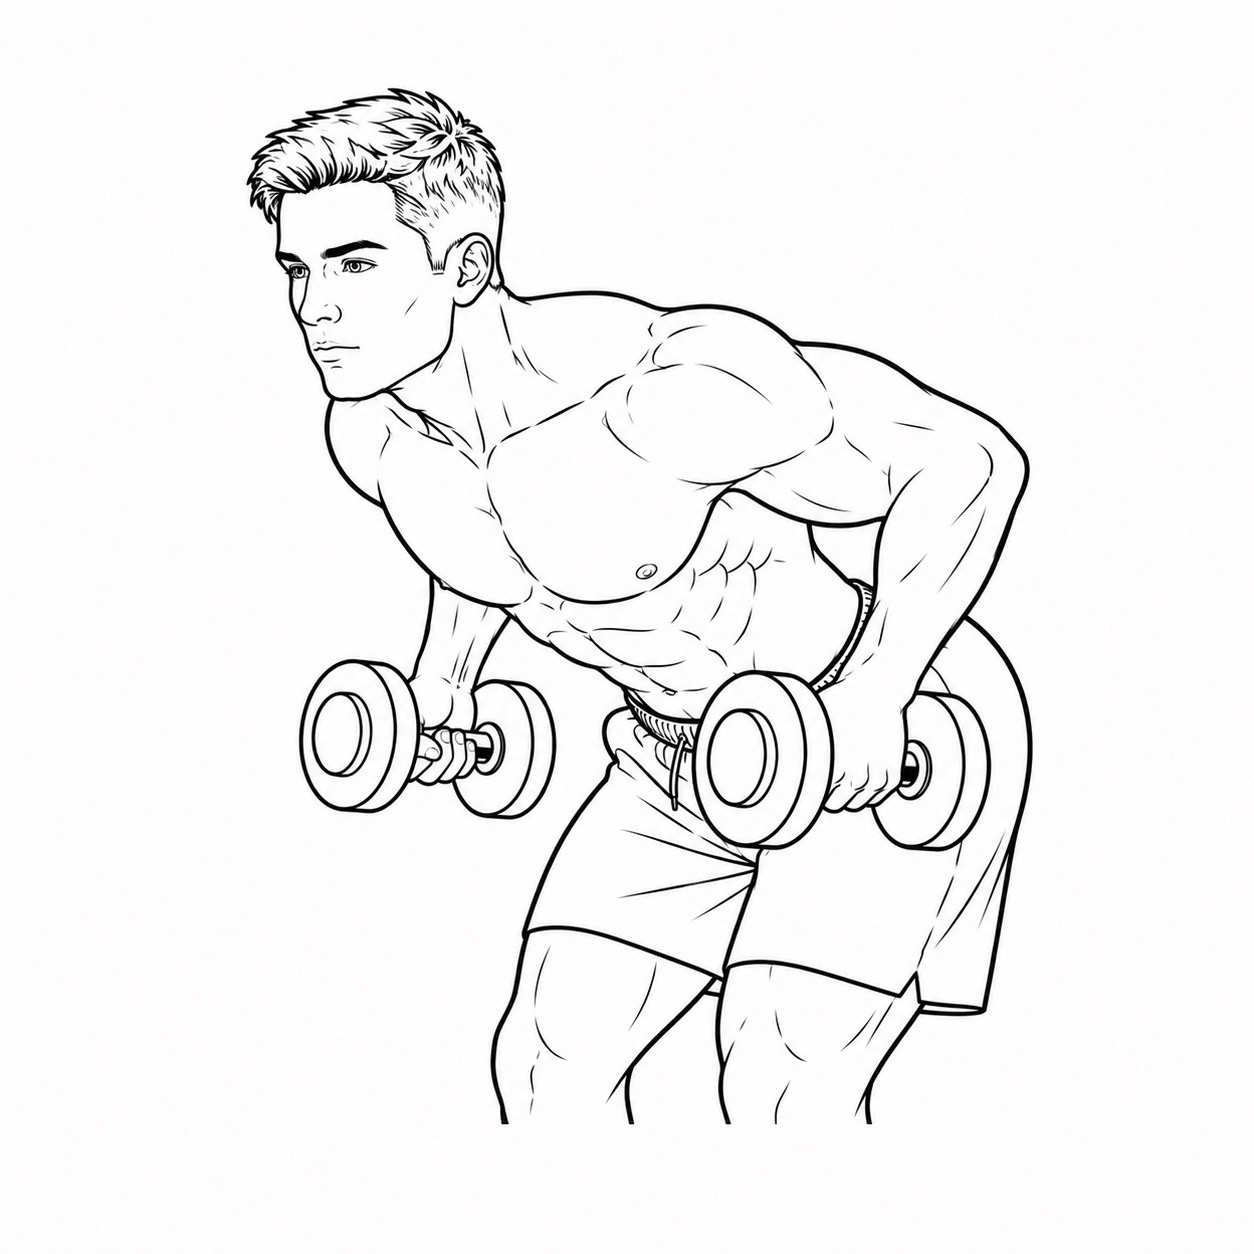
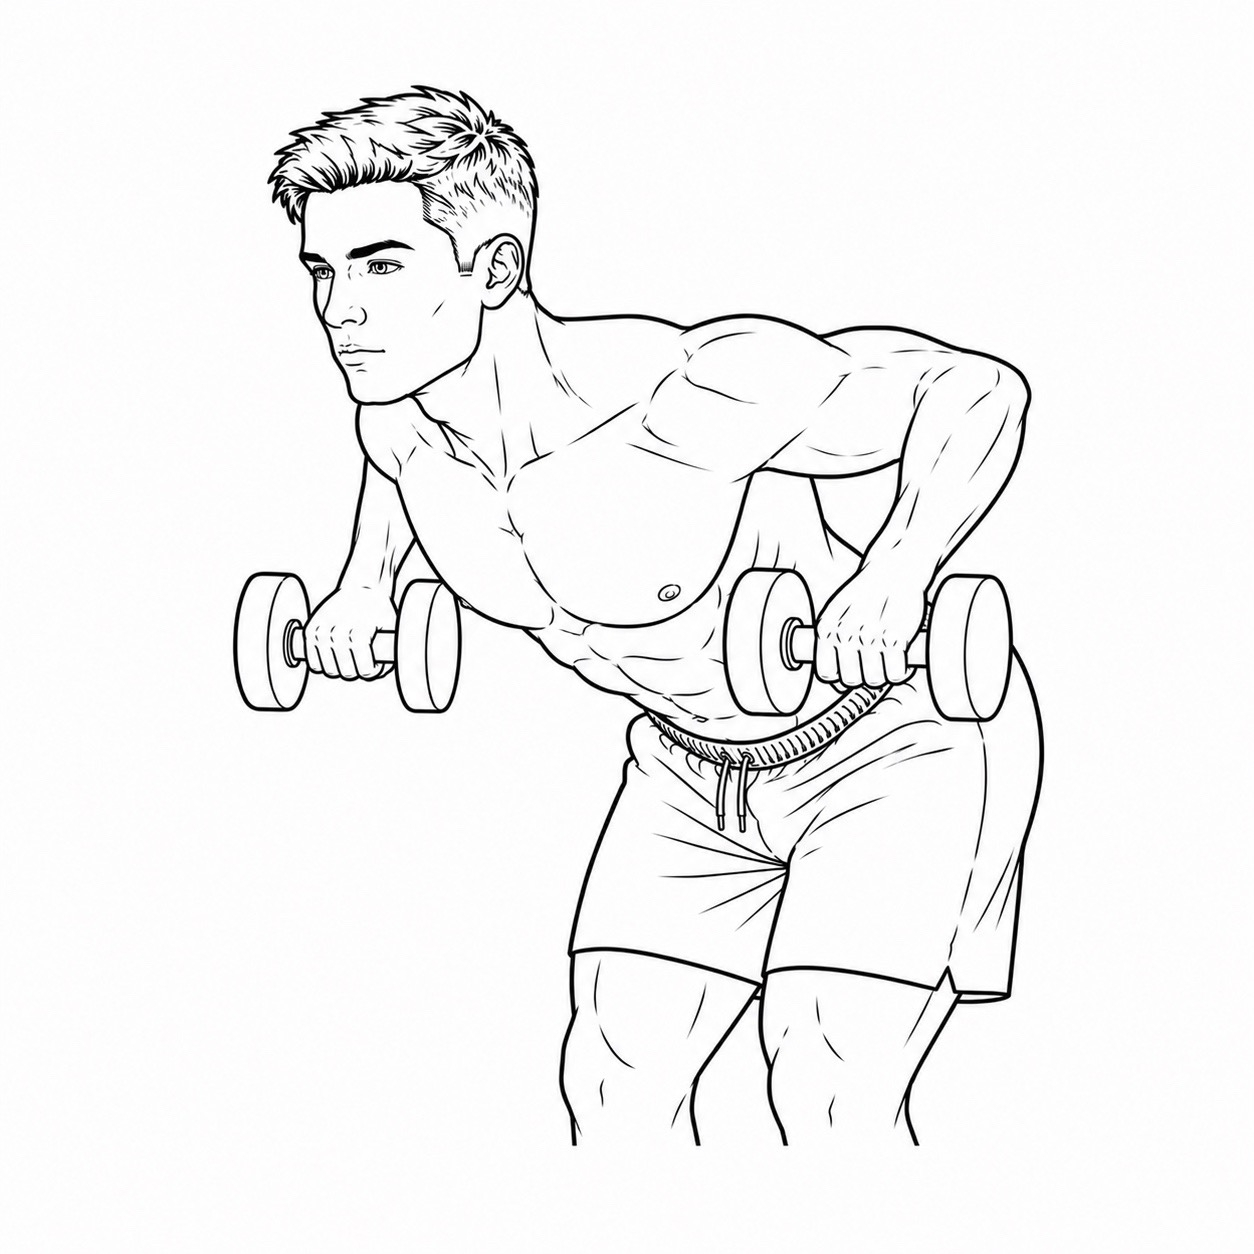
Add files via upload

Changed region(s): [[0.1866, 0.0622, 0.8397, 0.9019], [0.3732, 0.8086, 0.4043, 0.9019]]

diff --git a/script.js b/script.js
@@ -1,19 +1,54 @@
 const workoutsData = {
+    warmup: {
+        name: "РАЗМИНКА",
+        time: "10 минут",
+        exercisesCount: "9 упражнений",
+        heroImg: "images/warmup.jpg",
+        exercises: [
+            { name: "Вращение головой", reps: "30 сек", img: "images/exercises/warmup1.jpg" },
+            { name: "Махи руками", reps: "30 сек", img: "images/exercises/warmup2.jpg" },
+            { name: "Вращение локтями", reps: "30 сек", img: "images/exercises/warmup3.jpg" },
+            { name: "Вращение кистями", reps: "30 сек", img: "images/exercises/warmup4.jpg" },
+            { name: "Наклоны корпуса", reps: "30 сек", img: "images/exercises/warmup5.jpg" },
+            { name: "Вращение тазом", reps: "30 сек", img: "images/exercises/warmup6.jpg" },
+            { name: "Вращение ногами", reps: "30 сек", img: "images/exercises/warmup7.jpg" },
+            { name: "Приседания без веса", reps: "30 сек", img: "images/exercises/warmup8.jpg" },
+            { name: "Прыжки", reps: "30 сек", img: "images/exercises/warmup9.jpg" }
+        ]
+    },
+    legs: {
+        name: "НОГИ",
+        time: "35 минут",
+        exercisesCount: "9 упражнений",
+        heroImg: "images/legs.jpg",
+        exercises: [
+            { name: "Приседания с гантелями", reps: "3x12", img: "images/exercises/legs1.jpg" },
+            { name: "Выпады с гантелями", reps: "3x12", img: "images/exercises/legs2.jpg" },
+            { name: "Плие-подъемы на носки с гантелями", reps: "3x12", img: "images/exercises/legs3.jpg" },
+            { name: "Болгарские приседания с гантелями", reps: "3x12", img: "images/exercises/legs4.jpg" },
+            { name: "Ягодичный мостик с гантелью", reps: "3x12", img: "images/exercises/legs5.jpg" },
+            { name: "Выпады в сторону с гантелями", reps: "3x12", img: "images/exercises/legs6.jpg" },
+            { name: "Подъемы на носки с гантелями", reps: "3x12", img: "images/exercises/legs7.jpg" },
+            { name: "Приседания плие с гантелью", reps: "3x12", img: "images/exercises/legs8.jpg" },
+            { name: "Глубокие приседания с задержкой с гантелями", reps: "3x12", img: "images/exercises/legs9.jpg" }
+        ]
+    },
     arms: {
         name: "РУКИ",
-        time: "25 минут",
-        exercisesCount: "9 упражнений",
+        time: "50 минут",
+        exercisesCount: "10 упражнений",
         heroImg: "images/arms.jpg",
         exercises: [
             { name: "Жим гантелей над плечами вверх", reps: "3x12", img: "images/exercises/arms1.jpg" },
             { name: "Махи в стороны с гантелями", reps: "3x12", img: "images/exercises/arms2.jpg" },
             { name: "Тяга гантелей в наклоне к плечам", reps: "3x12", img: "images/exercises/arms3.jpg" },
-            { name: "Подъем гантелей на бицепс верт. хватом", reps: "3x12", img: "images/exercises/arms4.jpg" },
-            { name: "Подъем гантелей на бицепс гориз. хватом", reps: "3x12", img: "images/exercises/arms5.jpg" },
+            { name: "Подъем гантелей на бицепс вертикальным хватом", reps: "3x12", img: "images/exercises/arms4.jpg" },
             { name: "Французский жим с гантелью из-за головы", reps: "3x12", img: "images/exercises/arms6.jpg" },
+            { name: "Подъем гантелей на бицепс горизонтальным хватом", reps: "3x12", img: "images/exercises/arms5.jpg" },
+            { name: "Обратные отжимания от стула", reps: "3x12", img: "images/exercises/arms10.jpg" },
             { name: "Жим гантелей от плеч лежа", reps: "3x12", img: "images/exercises/arms7.jpg" },
             { name: "Жим гантелей от груди лежа", reps: "3x12", img: "images/exercises/arms8.jpg" },
-            { name: "Разведение гантелей в стороны лежа", reps: "3x12", img: "images/exercises/arms9.jpg" }
+            { name: "Разведение гантелей в стороны", reps: "3x12", img: "images/exercises/arms9.jpg" }
         ]
     },
     abs: {
@@ -63,7 +98,7 @@ const workoutsData = {
 };
 
 // ЗАГРУЗКА СОХРАНЕННЫХ ДАННЫХ
-let completions = { arms: 0, abs: 0, chest: 0 };
+let completions = { warmup: 0, legs: 0, arms: 0, abs: 0, chest: 0 };
 
 function loadCompletions() {
     const saved = localStorage.getItem('workoutCompletions');
@@ -77,9 +112,13 @@ function saveCompletions() {
 }
 
 function updateCompletionDisplay() {
+    const warmupCard = document.querySelector('.workout-card[data-workout="warmup"] .completed-count');
+    const legsCard = document.querySelector('.workout-card[data-workout="legs"] .completed-count');
     const armsCard = document.querySelector('.workout-card[data-workout="arms"] .completed-count');
     const absCard = document.querySelector('.workout-card[data-workout="abs"] .completed-count');
     const chestCard = document.querySelector('.workout-card[data-workout="chest"] .completed-count');
+    if (warmupCard) warmupCard.textContent = `Выполнено: ${completions.warmup} раз`;
+    if (legsCard) legsCard.textContent = `Выполнено: ${completions.legs} раз`;
     if (armsCard) armsCard.textContent = `Выполнено: ${completions.arms} раз`;
     if (absCard) absCard.textContent = `Выполнено: ${completions.abs} раз`;
     if (chestCard) chestCard.textContent = `Выполнено: ${completions.chest} раз`;
@@ -299,7 +338,9 @@ function updateTimerDisplay() {
 document.querySelectorAll('.workout-card').forEach(card => {
     card.addEventListener('click', () => {
         const workout = card.getAttribute('data-workout');
-        if (workout === 'arms') openWorkout('arms');
+        if (workout === 'warmup') openWorkout('warmup');
+        else if (workout === 'legs') openWorkout('legs');
+        else if (workout === 'arms') openWorkout('arms');
         else if (workout === 'abs') openWorkout('abs');
         else if (workout === 'chest') openWorkout('chest');
     });

diff --git a/style.css b/style.css
@@ -1,3 +1,10 @@
+/* ============================================
+   SPORTAPP - ПОЛНЫЙ СТИЛЬ
+   Акцентный цвет: SteelBlue #4682B4
+   Фоновый цвет: #26455f
+   ============================================ */
+
+/* ---------- ОБНУЛЕНИЕ И БАЗОВЫЕ СТИЛИ ---------- */
 * {
     margin: 0;
     padding: 0;
@@ -19,6 +26,7 @@ body {
     min-height: 100vh;
 }
 
+/* ---------- ЭКРАН ЗАГРУЗКИ (SPLASH) ---------- */
 .splash-screen {
     position: fixed;
     top: 0;
@@ -63,6 +71,7 @@ body {
     display: none !important;
 }
 
+/* ---------- ГЛАВНОЕ МЕНЮ (СПИСОК ТРЕНИРОВОК) ---------- */
 .main-menu {
     max-width: 500px;
     margin: 0 auto;
@@ -72,6 +81,7 @@ body {
     background-color: #26455f;
 }
 
+/* Верхняя фотография с заголовком */
 .hero-photo {
     position: relative;
     width: 100%;
@@ -108,6 +118,7 @@ body {
     letter-spacing: -0.3px;
 }
 
+/* Список карточек тренировок */
 .workout-list {
     padding: 20px 16px;
     display: flex;
@@ -118,6 +129,7 @@ body {
     padding-bottom: 40px;
 }
 
+/* Карточка тренировки: 2/3 цвет + 1/3 фото */
 .workout-card {
     display: flex;
     width: 100%;
@@ -135,6 +147,7 @@ body {
     transform: scale(0.98);
 }
 
+/* Левая часть карточки (2/3) - акцентный цвет */
 .card-info {
     width: 66.666%;
     padding: 20px 16px;
@@ -170,6 +183,7 @@ body {
     margin-top: 6px;
 }
 
+/* Правая часть карточки (1/3) - фото */
 .card-image {
     width: 33.333%;
     overflow: hidden;
@@ -184,6 +198,7 @@ body {
     display: block;
 }
 
+/* ---------- ЭКРАН ВЫБОРА ТРЕНИРОВКИ (СПИСОК УПРАЖНЕНИЙ) ---------- */
 .workout-screen {
     max-width: 500px;
     margin: 0 auto;
@@ -222,6 +237,7 @@ body {
     background: rgba(0,0,0,0.8);
 }
 
+/* Верхняя фотография на экране выбора тренировки */
 .workout-hero {
     position: relative;
     width: 100%;
@@ -268,6 +284,7 @@ body {
     font-weight: 500;
 }
 
+/* Список упражнений перед стартом */
 .exercises-list {
     flex: 1;
     padding: 20px 18px;
@@ -319,6 +336,7 @@ body {
     color: #5b6e8c;
 }
 
+/* Кнопка СТАРТ */
 .start-button-container {
     position: sticky;
     bottom: 0;
@@ -349,7 +367,8 @@ body {
     background: #3a6e9a;
 }
 
-/* АКТИВНАЯ ТРЕНИРОВКА */
+/* ---------- АКТИВНАЯ ТРЕНИРОВКА (ВЫПОЛНЕНИЕ УПРАЖНЕНИЙ) ---------- */
+/* Экран фиксирован на весь экран */
 .active-workout-screen {
     max-width: 500px;
     margin: 0 auto;
@@ -366,6 +385,7 @@ body {
     overflow: hidden;
 }
 
+/* Верхняя часть (белый фон, фото по центру) */
 .active-top-block {
     flex: 1;
     position: relative;
@@ -377,6 +397,7 @@ body {
     justify-content: center;
 }
 
+/* Кнопка назад в активной тренировке */
 .active-back-btn {
     position: absolute;
     top: 18px;
@@ -394,6 +415,7 @@ body {
     transition: 0.2s;
 }
 
+/* Счетчик упражнений (номер / всего) */
 .exercise-counter {
     position: absolute;
     top: 18px;
@@ -408,6 +430,7 @@ body {
     font-weight: 500;
 }
 
+/* Таймер */
 .timer-display {
     position: absolute;
     top: 70px;
@@ -424,6 +447,7 @@ body {
     letter-spacing: 1px;
 }
 
+/* Контейнер для фото упражнения */
 .active-hero {
     width: 100%;
     height: 100%;
@@ -436,12 +460,13 @@ body {
 .active-hero img {
     width: auto;
     height: auto;
-    max-width: 80%;
-    max-height: 80%;
+    max-width: 90%;
+    max-height: 90%;
     object-fit: contain;
     display: block;
 }
 
+/* Нижняя часть (акцентный цвет с информацией) */
 .active-bottom-block {
     background-color: #4682B4;
     padding: 20px 20px 30px;
@@ -464,6 +489,7 @@ body {
     margin-bottom: 25px;
 }
 
+/* Навигационные кнопки НАЗАД / ДАЛЕЕ / ФИНИШ */
 .nav-buttons {
     display: flex;
     gap: 12px;
@@ -493,12 +519,7 @@ body {
     color: white;
 }
 
-.next-btn {
-    background-color: white;
-    color: #4682B4;
-}
-
-.finish-btn {
+.next-btn, .finish-btn {
     background-color: white;
     color: #4682B4;
 }
@@ -507,7 +528,7 @@ body {
     display: none;
 }
 
-/* ФИНИШ */
+/* ---------- ЭКРАН ФИНИША (ЗАВЕРШЕНИЕ ТРЕНИРОВКИ) ---------- */
 .finish-screen {
     max-width: 500px;
     margin: 0 auto;
@@ -620,6 +641,7 @@ body {
     transform: scale(0.97);
 }
 
+/* ---------- АДАПТАЦИЯ ДЛЯ МАЛЕНЬКИХ ЭКРАНОВ (iPhone) ---------- */
 @media (max-width: 450px) {
     .card-info h3 {
         font-size: 1.5rem;

diff --git a/index.html b/index.html
@@ -21,12 +21,27 @@
         </div>
 
         <div class="workout-list">
+            <!-- РАЗМИНКА - самая первая -->
+            <div class="workout-card" data-workout="warmup">
+                <div class="card-info" style="background-color: #4682B4;">
+                    <h3>РАЗМИНКА</h3>
+                    <div class="stats">
+                        <span>10 минут</span>
+                        <span>9 упражнений</span>
+                    </div>
+                    <div class="completed-count">Выполнено: 0 раз</div>
+                </div>
+                <div class="card-image">
+                    <img src="images/warmup.jpg" alt="Разминка">
+                </div>
+            </div>
+
             <div class="workout-card" data-workout="arms">
                 <div class="card-info" style="background-color: #4682B4;">
                     <h3>РУКИ</h3>
                     <div class="stats">
-                        <span>25 минут</span>
-                        <span>9 упражнений</span>
+                        <span>50 минут</span>
+                        <span>10 упражнений</span>
                     </div>
                     <div class="completed-count">Выполнено: 0 раз</div>
                 </div>
@@ -62,6 +77,20 @@
                     <img src="images/chest.jpg" alt="Грудь">
                 </div>
             </div>
+
+            <div class="workout-card" data-workout="legs">
+                <div class="card-info" style="background-color: #4682B4;">
+                    <h3>НОГИ</h3>
+                    <div class="stats">
+                        <span>35 минут</span>
+                        <span>9 упражнений</span>
+                    </div>
+                    <div class="completed-count">Выполнено: 0 раз</div>
+                </div>
+                <div class="card-image">
+                    <img src="images/legs.jpg" alt="Ноги">
+                </div>
+            </div>
         </div>
     </div>
 
@@ -74,7 +103,7 @@
                 <div class="workout-hero-info">
                     <h2 id="workout-name">РУКИ</h2>
                     <div class="workout-meta">
-                        <span id="workout-time">25 минут</span>
+                        <span id="workout-time">45 минут</span>
                         <span id="workout-exercises-count">9 упражнений</span>
                     </div>
                 </div>
